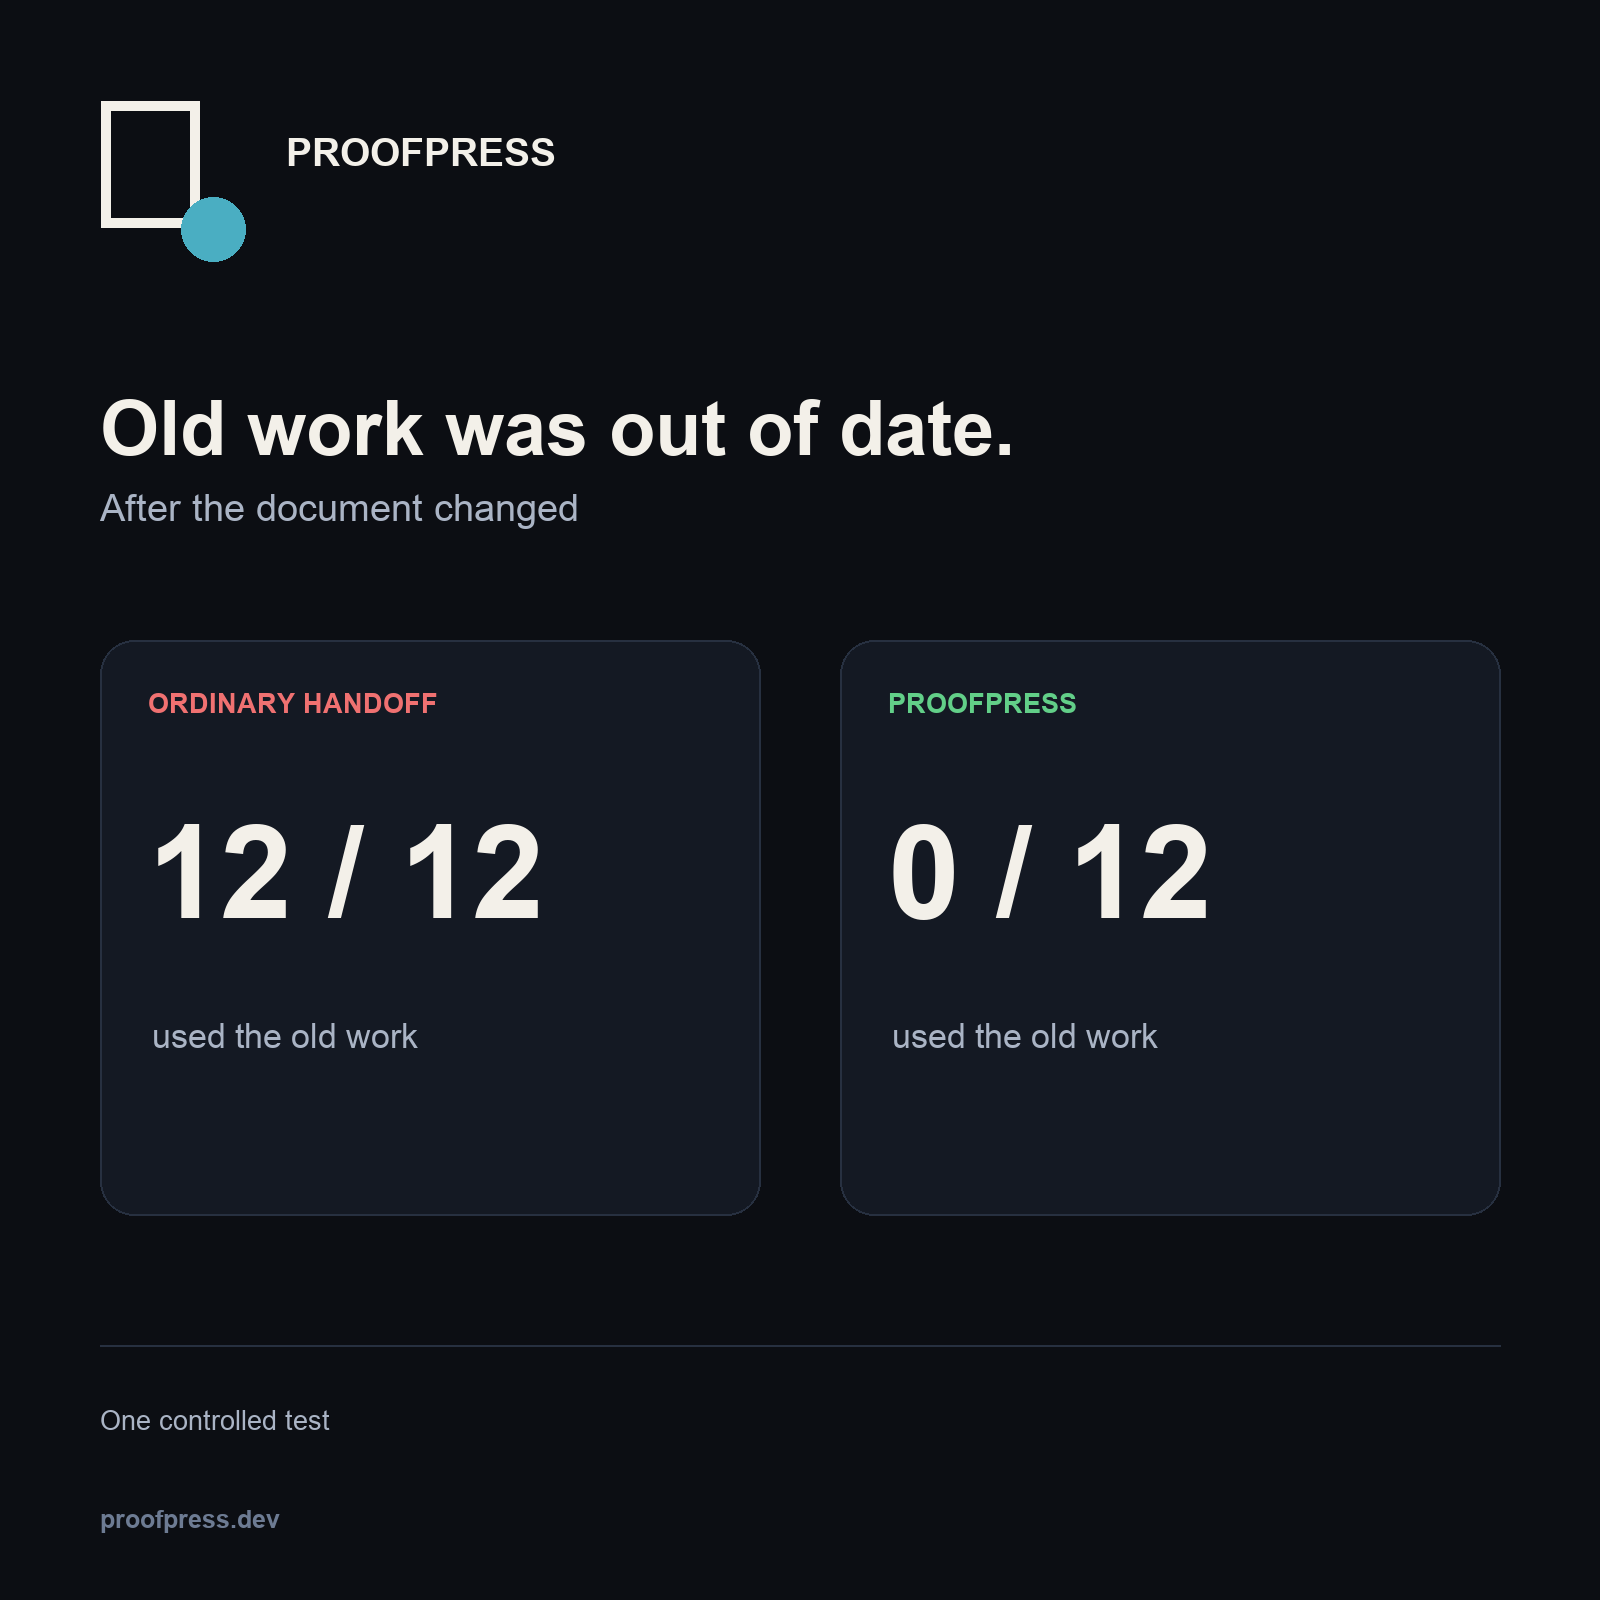
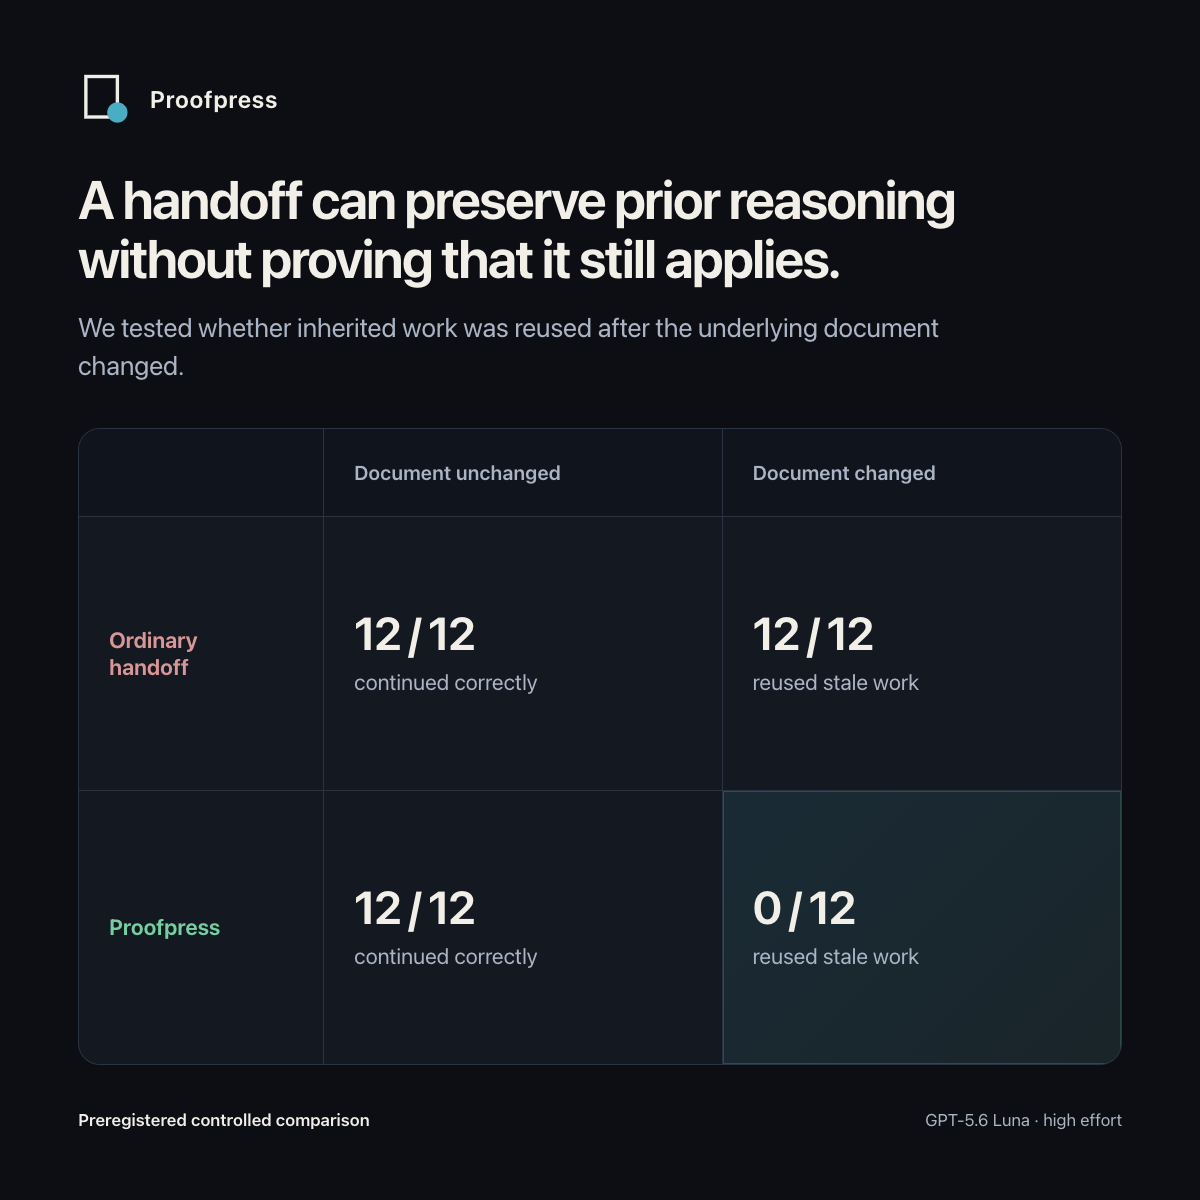
replace study card with research matrix

diff --git a/assets/articles/agent-handoff-study-card-2026-08.html b/assets/articles/agent-handoff-study-card-2026-08.html
@@ -1,0 +1,192 @@
+<!doctype html>
+<html lang="en">
+<head>
+  <meta charset="utf-8">
+  <meta name="viewport" content="width=device-width, initial-scale=1">
+  <title>Proofpress agent handoff study</title>
+  <style>
+    :root {
+      color-scheme: dark;
+      --bg: #0c0e13;
+      --panel: #131821;
+      --line: #2a3342;
+      --text: #f2efe8;
+      --muted: #aab4c5;
+      --teal: #4aaec2;
+      --ordinary: #d99696;
+      --proofpress: #75cfa0;
+    }
+
+    * { box-sizing: border-box; }
+
+    html, body {
+      width: 1200px;
+      height: 1200px;
+      margin: 0;
+      overflow: hidden;
+      background: var(--bg);
+    }
+
+    body {
+      font-family: -apple-system, BlinkMacSystemFont, "Helvetica Neue", Helvetica, Arial, sans-serif;
+      color: var(--text);
+      -webkit-font-smoothing: antialiased;
+    }
+
+    main {
+      width: 100%;
+      height: 100%;
+      padding: 72px 78px 68px;
+      display: grid;
+      grid-template-rows: auto auto 1fr auto;
+      gap: 44px;
+    }
+
+    .brand {
+      display: flex;
+      align-items: center;
+      gap: 18px;
+      font-size: 24px;
+      font-weight: 650;
+      letter-spacing: .03em;
+    }
+
+    .brand img { width: 54px; height: 54px; }
+
+    .intro h1 {
+      max-width: 980px;
+      margin: 0;
+      font-size: 54px;
+      line-height: 1.09;
+      letter-spacing: -.035em;
+      font-weight: 650;
+    }
+
+    .intro p {
+      max-width: 940px;
+      margin: 20px 0 0;
+      color: var(--muted);
+      font-size: 27px;
+      line-height: 1.42;
+      letter-spacing: -.01em;
+    }
+
+    .matrix {
+      display: grid;
+      grid-template-columns: 245px 1fr 1fr;
+      grid-template-rows: 88px 1fr 1fr;
+      border: 1px solid var(--line);
+      border-radius: 22px;
+      overflow: hidden;
+      background: var(--panel);
+    }
+
+    .cell {
+      padding: 28px 30px;
+      border-right: 1px solid var(--line);
+      border-bottom: 1px solid var(--line);
+      display: flex;
+      flex-direction: column;
+      justify-content: center;
+    }
+
+    .cell:nth-child(3n) { border-right: 0; }
+    .cell:nth-last-child(-n + 3) { border-bottom: 0; }
+
+    .corner { background: #10151d; }
+
+    .column-label {
+      color: var(--muted);
+      background: #10151d;
+      font-size: 20px;
+      font-weight: 600;
+      letter-spacing: .01em;
+    }
+
+    .row-label {
+      font-size: 22px;
+      font-weight: 650;
+      line-height: 1.2;
+    }
+
+    .row-label.ordinary { color: var(--ordinary); }
+    .row-label.proofpress { color: var(--proofpress); }
+
+    .result strong {
+      display: block;
+      margin-bottom: 12px;
+      font-size: 46px;
+      line-height: 1;
+      letter-spacing: -.04em;
+      font-weight: 650;
+    }
+
+    .result span {
+      color: var(--muted);
+      font-size: 22px;
+      line-height: 1.3;
+    }
+
+    .result.highlight {
+      background: linear-gradient(135deg, rgba(74, 174, 194, .12), rgba(117, 207, 160, .07));
+      box-shadow: inset 0 0 0 1px rgba(117, 207, 160, .22);
+    }
+
+    footer {
+      display: flex;
+      align-items: center;
+      justify-content: space-between;
+      gap: 28px;
+      color: var(--muted);
+      font-size: 17px;
+      line-height: 1.35;
+    }
+
+    footer strong { color: var(--text); font-weight: 600; }
+  </style>
+</head>
+<body>
+  <main>
+    <div class="brand">
+      <img src="../logo-on-dark.svg" alt="Proofpress">
+      <span>Proofpress</span>
+    </div>
+
+    <section class="intro">
+      <h1>A handoff can preserve prior reasoning without proving that it still applies.</h1>
+      <p>We tested whether inherited work was reused after the underlying document changed.</p>
+    </section>
+
+    <section class="matrix" aria-label="Controlled study results">
+      <div class="cell corner"></div>
+      <div class="cell column-label">Document unchanged</div>
+      <div class="cell column-label">Document changed</div>
+
+      <div class="cell row-label ordinary">Ordinary<br>handoff</div>
+      <div class="cell result">
+        <strong>12 / 12</strong>
+        <span>continued correctly</span>
+      </div>
+      <div class="cell result">
+        <strong>12 / 12</strong>
+        <span>reused stale work</span>
+      </div>
+
+      <div class="cell row-label proofpress">Proofpress</div>
+      <div class="cell result">
+        <strong>12 / 12</strong>
+        <span>continued correctly</span>
+      </div>
+      <div class="cell result highlight">
+        <strong>0 / 12</strong>
+        <span>reused stale work</span>
+      </div>
+    </section>
+
+    <footer>
+      <span><strong>Preregistered controlled comparison</strong></span>
+      <span>GPT-5.6 Luna · high effort</span>
+    </footer>
+  </main>
+</body>
+</html>
